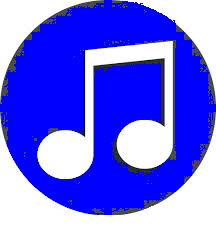
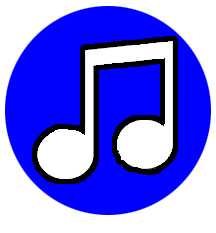
added new orientation for character

Changed region(s): [[0.0, 0.0, 1.0, 0.9313], [0.2778, 0.8412, 0.4722, 0.9313], [0.2222, 0.8412, 0.2778, 0.8712]]

diff --git a/main.js b/main.js
@@ -9,10 +9,12 @@ var interval;
 var notes = []
 var images = {
  note:"./img/roundNote.png",
- noteHit: "./img/plusone.png",
+ noteHit: "./img/plusone1.png",
  noteMissed: "./img/noteMissed.png",
  celia0: "./img/celia0.png",
  celia1: "./img/celia1.png",
+ celia2: "./img/celia2.png",
+ celia3: "./img/celia3.png",
  bg: "./img/cuba.jpg"
 
 }
@@ -23,6 +25,7 @@ class Celia {
     this.x = 310;
     this.speed = 0;
     this.pressed = false
+    this.orientation = 'left'
   }
 
 }
@@ -208,6 +211,7 @@ window.onload = () => {
 
 addEventListener('keydown',(e)=>{
   if(e.key === "ArrowLeft"){
+    CeliaPos.orientation='left'
     if(CeliaPos.speed>-3)
       CeliaPos.speed=-3;
     else if (CeliaPos.speed>-5)
@@ -224,12 +228,20 @@ addEventListener('keydown',(e)=>{
   }
   
   if(e.key === "ArrowRight"){
+    CeliaPos.orientation='right'
     if(CeliaPos.speed<3)
       CeliaPos.speed=3;
     else if (CeliaPos.speed<5)
       CeliaPos.speed+=2;
     CeliaPos.x+=CeliaPos.speed;
     CeliaPos.pressed = true
+    if((frames / 7) % 2 < 1){
+      board.celia.src = images.celia3;
+      hitNotes()
+    }
+    else  
+      board.celia.src = images.celia2;
+
 
   }
 
@@ -246,10 +258,14 @@ addEventListener('keyup', function(e){
     stop()
     }
   
-    if(e.key === "ArrowLeft" || e.key === "ArrowRight"){
+    if(e.key === "ArrowLeft" ){
       CeliaPos.pressed=false
       board.celia.src = images.celia0;
-      console.log("not pressed")
+    }
+
+    if( e.key === "ArrowRight"){
+      CeliaPos.pressed=false
+      board.celia.src = images.celia2;
     }
 
   
@@ -262,11 +278,19 @@ addEventListener('keyup', function(e){
   if(e.code === "Space"){
     switch (board.mode) {
       case "play": 
-        board.celia.src = images.celia1;
-        setTimeout(()=>{
-          board.celia.src = images.celia0;
-        }, 200)
-         hitNotes();
+        if(CeliaPos.orientation==='left'){
+          board.celia.src = images.celia1;
+          setTimeout(()=>{
+            board.celia.src = images.celia0;
+          }, 200)}
+        else  {
+          console.log('right butt')
+          board.celia.src = images.celia3;
+          setTimeout(()=>{
+            board.celia.src = images.celia2;
+          }, 200)
+        }
+        hitNotes();
         break;
       // case "record":
       //   recordNotes();
